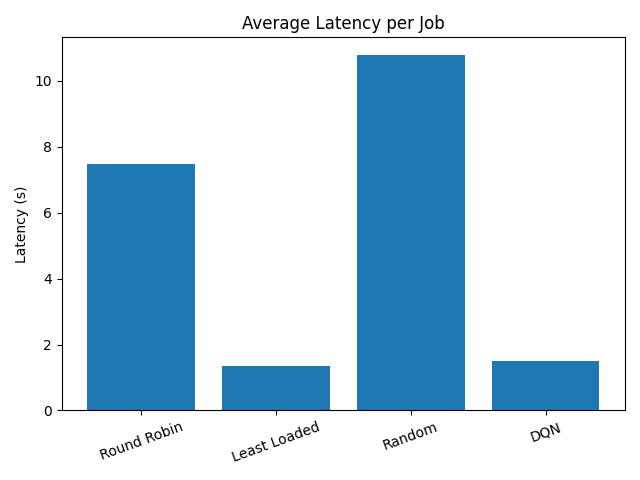
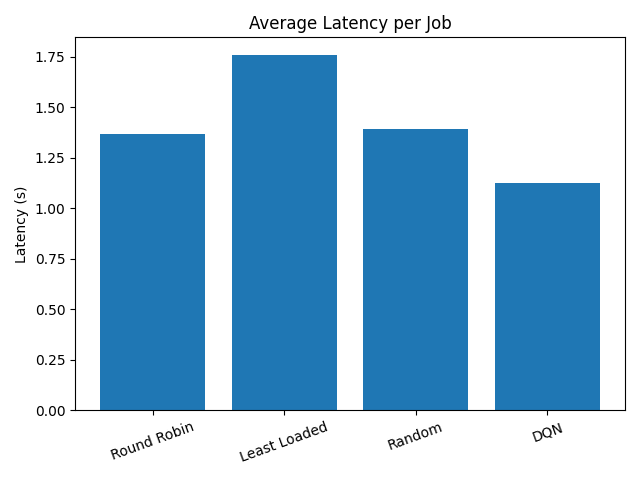
plots

diff --git a/make_plots.py b/make_plots.py
@@ -8,16 +8,16 @@ os.makedirs(plots_dir, exist_ok=True)
 
 algos = ["Round Robin", "Least Loaded", "Random", "DQN"]
 
-# === FINAL RESULTS FROM eval_policies.py ===
+# === CORRECTED RESULTS FROM eval_policies.py ===
 # Per-task metrics
-energy_task  = [18.5392, 18.7305, 18.7178, 19.9546]   # Avg energy per task (J)
-latency_task = [5.5166, 1.3520, 7.4598, 1.4769]       # Avg latency per task (s)
-miss_task    = [44.11, 11.92, 58.83, 12.71]           # Deadline miss rate per task (%)
+energy_task  = [17.5749, 13.3485, 16.2220, 11.1944]   # Avg energy per task (J)
+latency_task = [1.3245, 1.5163, 1.3297, 1.0432]       # Avg latency per task (s)
+miss_task    = [12.34, 16.58, 12.37, 4.74]            # Deadline miss rate per task (%)
 
 # Per-job metrics
-energy_job   = [37.0764, 37.7211, 37.2734, 40.6445]   # Avg energy per job (J)
-latency_job  = [7.4748, 1.3491, 10.7793, 1.5079]      # Avg latency per job (s)
-miss_job     = [51.30, 10.16, 72.11, 10.97]           # Job deadline miss rate (%)
+energy_job   = [35.1005, 26.6781, 32.4675, 22.2556]   # Avg energy per job (J)
+latency_job  = [1.3678, 1.7579, 1.3913, 1.1230]       # Avg latency per job (s)
+miss_job     = [11.94, 20.19, 12.19, 4.52]            # Job deadline miss rate (%)
 
 
 def save_bar(y, title, ylabel, filename):
